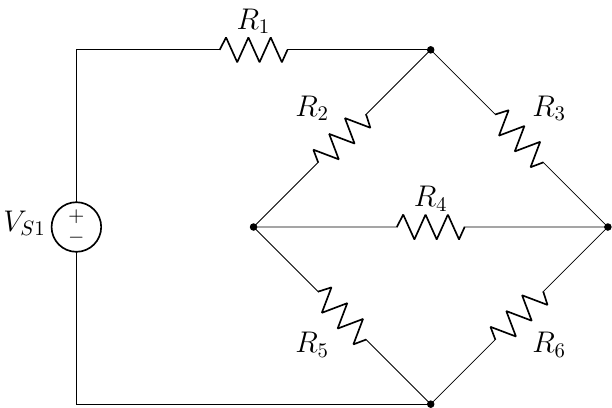
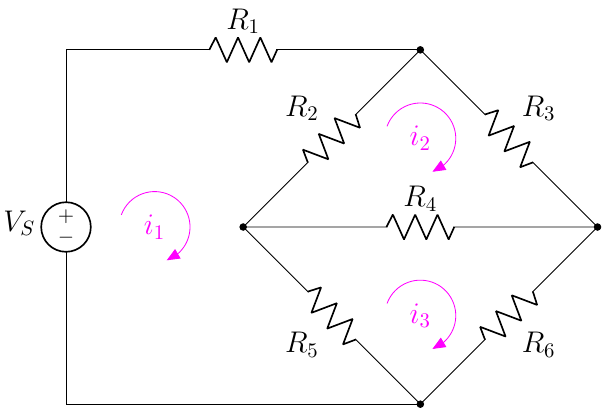
edit 3.40

diff --git a/1.5 Mesh Analysis/3.4 Mesh Analysis/3.40(new).tex b/1.5 Mesh Analysis/3.4 Mesh Analysis/3.40(new).tex
@@ -2,7 +2,7 @@
 \begin{document}
 \begin{circuitikz}[american]
     %%% vertical %%%
-    \draw(0,0)  to[V,l=\vsname{1}] ++(0,6);
+    \draw(0,0)  to[V,l=\vsname{}] ++(0,6);
 
     %%% horizontal %%%
     \draw(0,6)  to[R,l=\rname{1},-*] ++(6,0);
@@ -17,6 +17,9 @@
     \draw(3,3)  to[R,l=\rname{4}] ++(6,0);
 
     %%% find %%%
+    \loopc{1.5}{3}{1};
+    \loopc{6}{4.5}{2};
+    \loopc{6}{1.5}{3};
 
 \end{circuitikz}
 \end{document}
